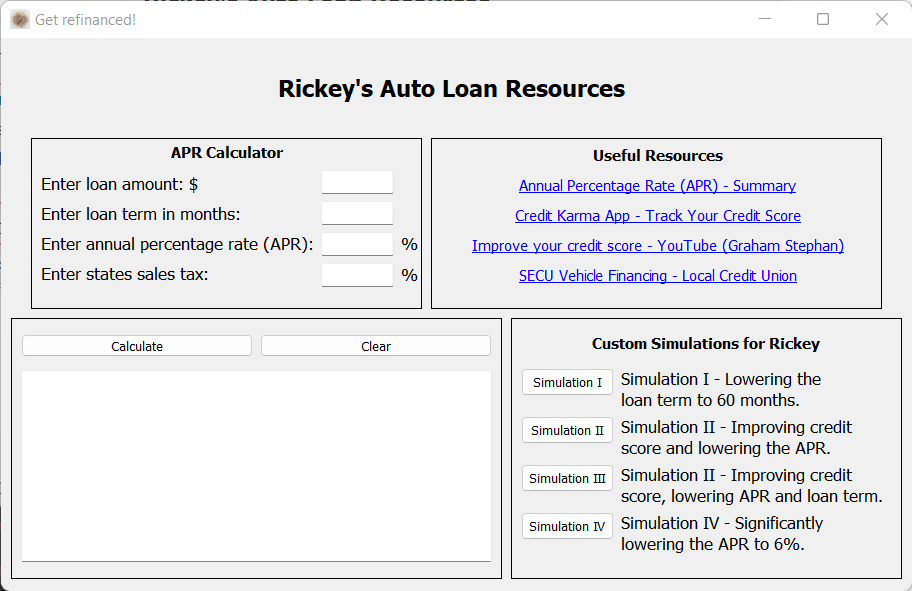
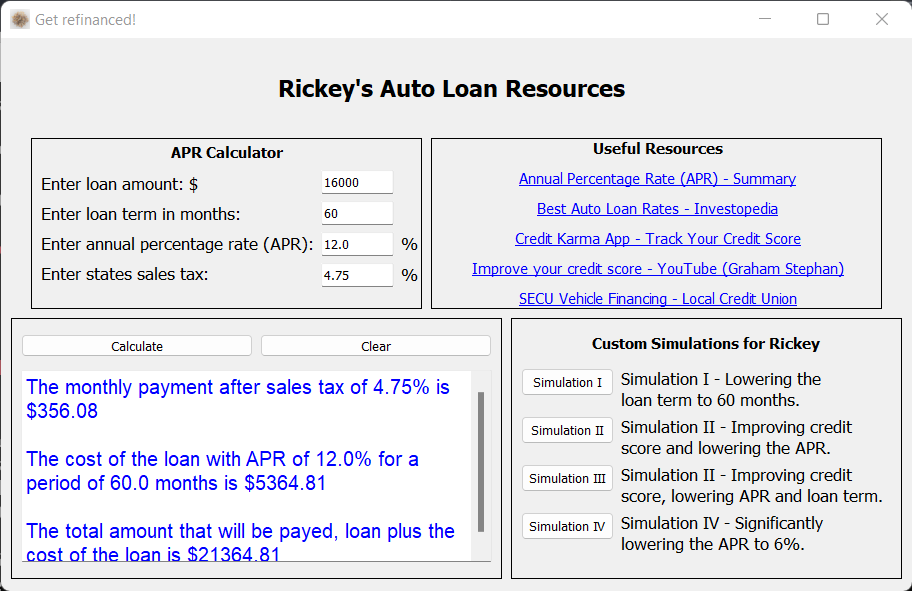
Add files via upload

diff --git a/main.py b/main.py
@@ -43,7 +43,6 @@ class MainWindow(QtWidgets.QMainWindow):
     def inputbox_loan_amount(self, text_input):
         try:
             UserParameters.amount_borrowed = float(text_input)
-            print(f'Loan amount entered: ${str(UserParameters.amount_borrowed)}')
         except:
             # Remove special characters and letters from input and keep only numbers and "."
             try:
@@ -56,7 +55,6 @@ class MainWindow(QtWidgets.QMainWindow):
     def inputbox_loan_term(self, text_input):
         try:
             UserParameters.number_of_months = float(text_input)
-            print(f'Loan term entered: {str(UserParameters.number_of_months)} months')
         except:
             try:
                 UserParameters.number_of_months = float(re.sub("[^.0-9]", "", text_input))
@@ -68,7 +66,6 @@ class MainWindow(QtWidgets.QMainWindow):
     def inputbox_apr(self, text_input):
         try:
             UserParameters.apr = float(text_input) / 100
-            print(f'Annual interest rate entered: {str(UserParameters.apr*100)}%')
         except:
             try:
                 UserParameters.apr = float(re.sub("[^.0-9]", "", text_input))
@@ -80,7 +77,6 @@ class MainWindow(QtWidgets.QMainWindow):
     def inputbox_tax(self, text_input):
         try:
             UserParameters.state_sales_tax = float(text_input)/ 100
-            print(f'state_sales_tax entered: {str(UserParameters.state_sales_tax*100)}%')
         except:
             try:
                 UserParameters.state_sales_tax = float(re.sub("[^.0-9]", "", text_input))
@@ -123,7 +119,7 @@ class MainWindow(QtWidgets.QMainWindow):
             self.textBrowser_results.setText('')
             combined_result_msgs = '\n'.join(str(i) for i in UserParameters.result_msgs)
             self.textBrowser_results.setStyleSheet("color: blue;")
-            self.textBrowser_results.setText("-"*90+"\n" + combined_result_msgs + "\n"+"-"*90)
+            self.textBrowser_results.setText(combined_result_msgs)
             UserParameters.result_msgs.clear()
 
     def simulation_1(self):

diff --git a/apr.py b/apr.py
@@ -13,6 +13,7 @@ class UserParameters:
         self.nc_sales_tax = 4.75
 
 class LoanCalculator:
+
     @classmethod
     def loan_calc(self):
         try:
@@ -25,8 +26,8 @@ class LoanCalculator:
 
             #UserParameters.result_msgs.append(f'The monthly payment before tax is ${str(round(monthly_payment_before_tax,2))}')
             UserParameters.result_msgs.append(f'The monthly payment after sales tax of {str(round(UserParameters.state_sales_tax*100,2))}% is ${str(round(monthly_payment,2))}')
-            UserParameters.result_msgs.append(f'The cost of the loan with APR of {str(round(UserParameters.apr*100,2))}% for a period of {UserParameters.number_of_months} months is ${str(round(loan_cost,2))}')
-            UserParameters.result_msgs.append(f'The total amount that will be payed, loan plus the cost of the loan is ${str(round(total,2))}')
+            UserParameters.result_msgs.append(f'\nThe cost of the loan with APR of {str(round(UserParameters.apr*100,2))}% for a period of {UserParameters.number_of_months} months is ${str(round(loan_cost,2))}')
+            UserParameters.result_msgs.append(f'\nThe total amount that will be payed, loan plus the cost of the loan is ${str(round(total,2))}')
         except Exception as e:
             UserParameters.warning_msgs.append(f'Error Occured : Please make sure that you filled all the fields correctly \nError Type : {e}')
 
